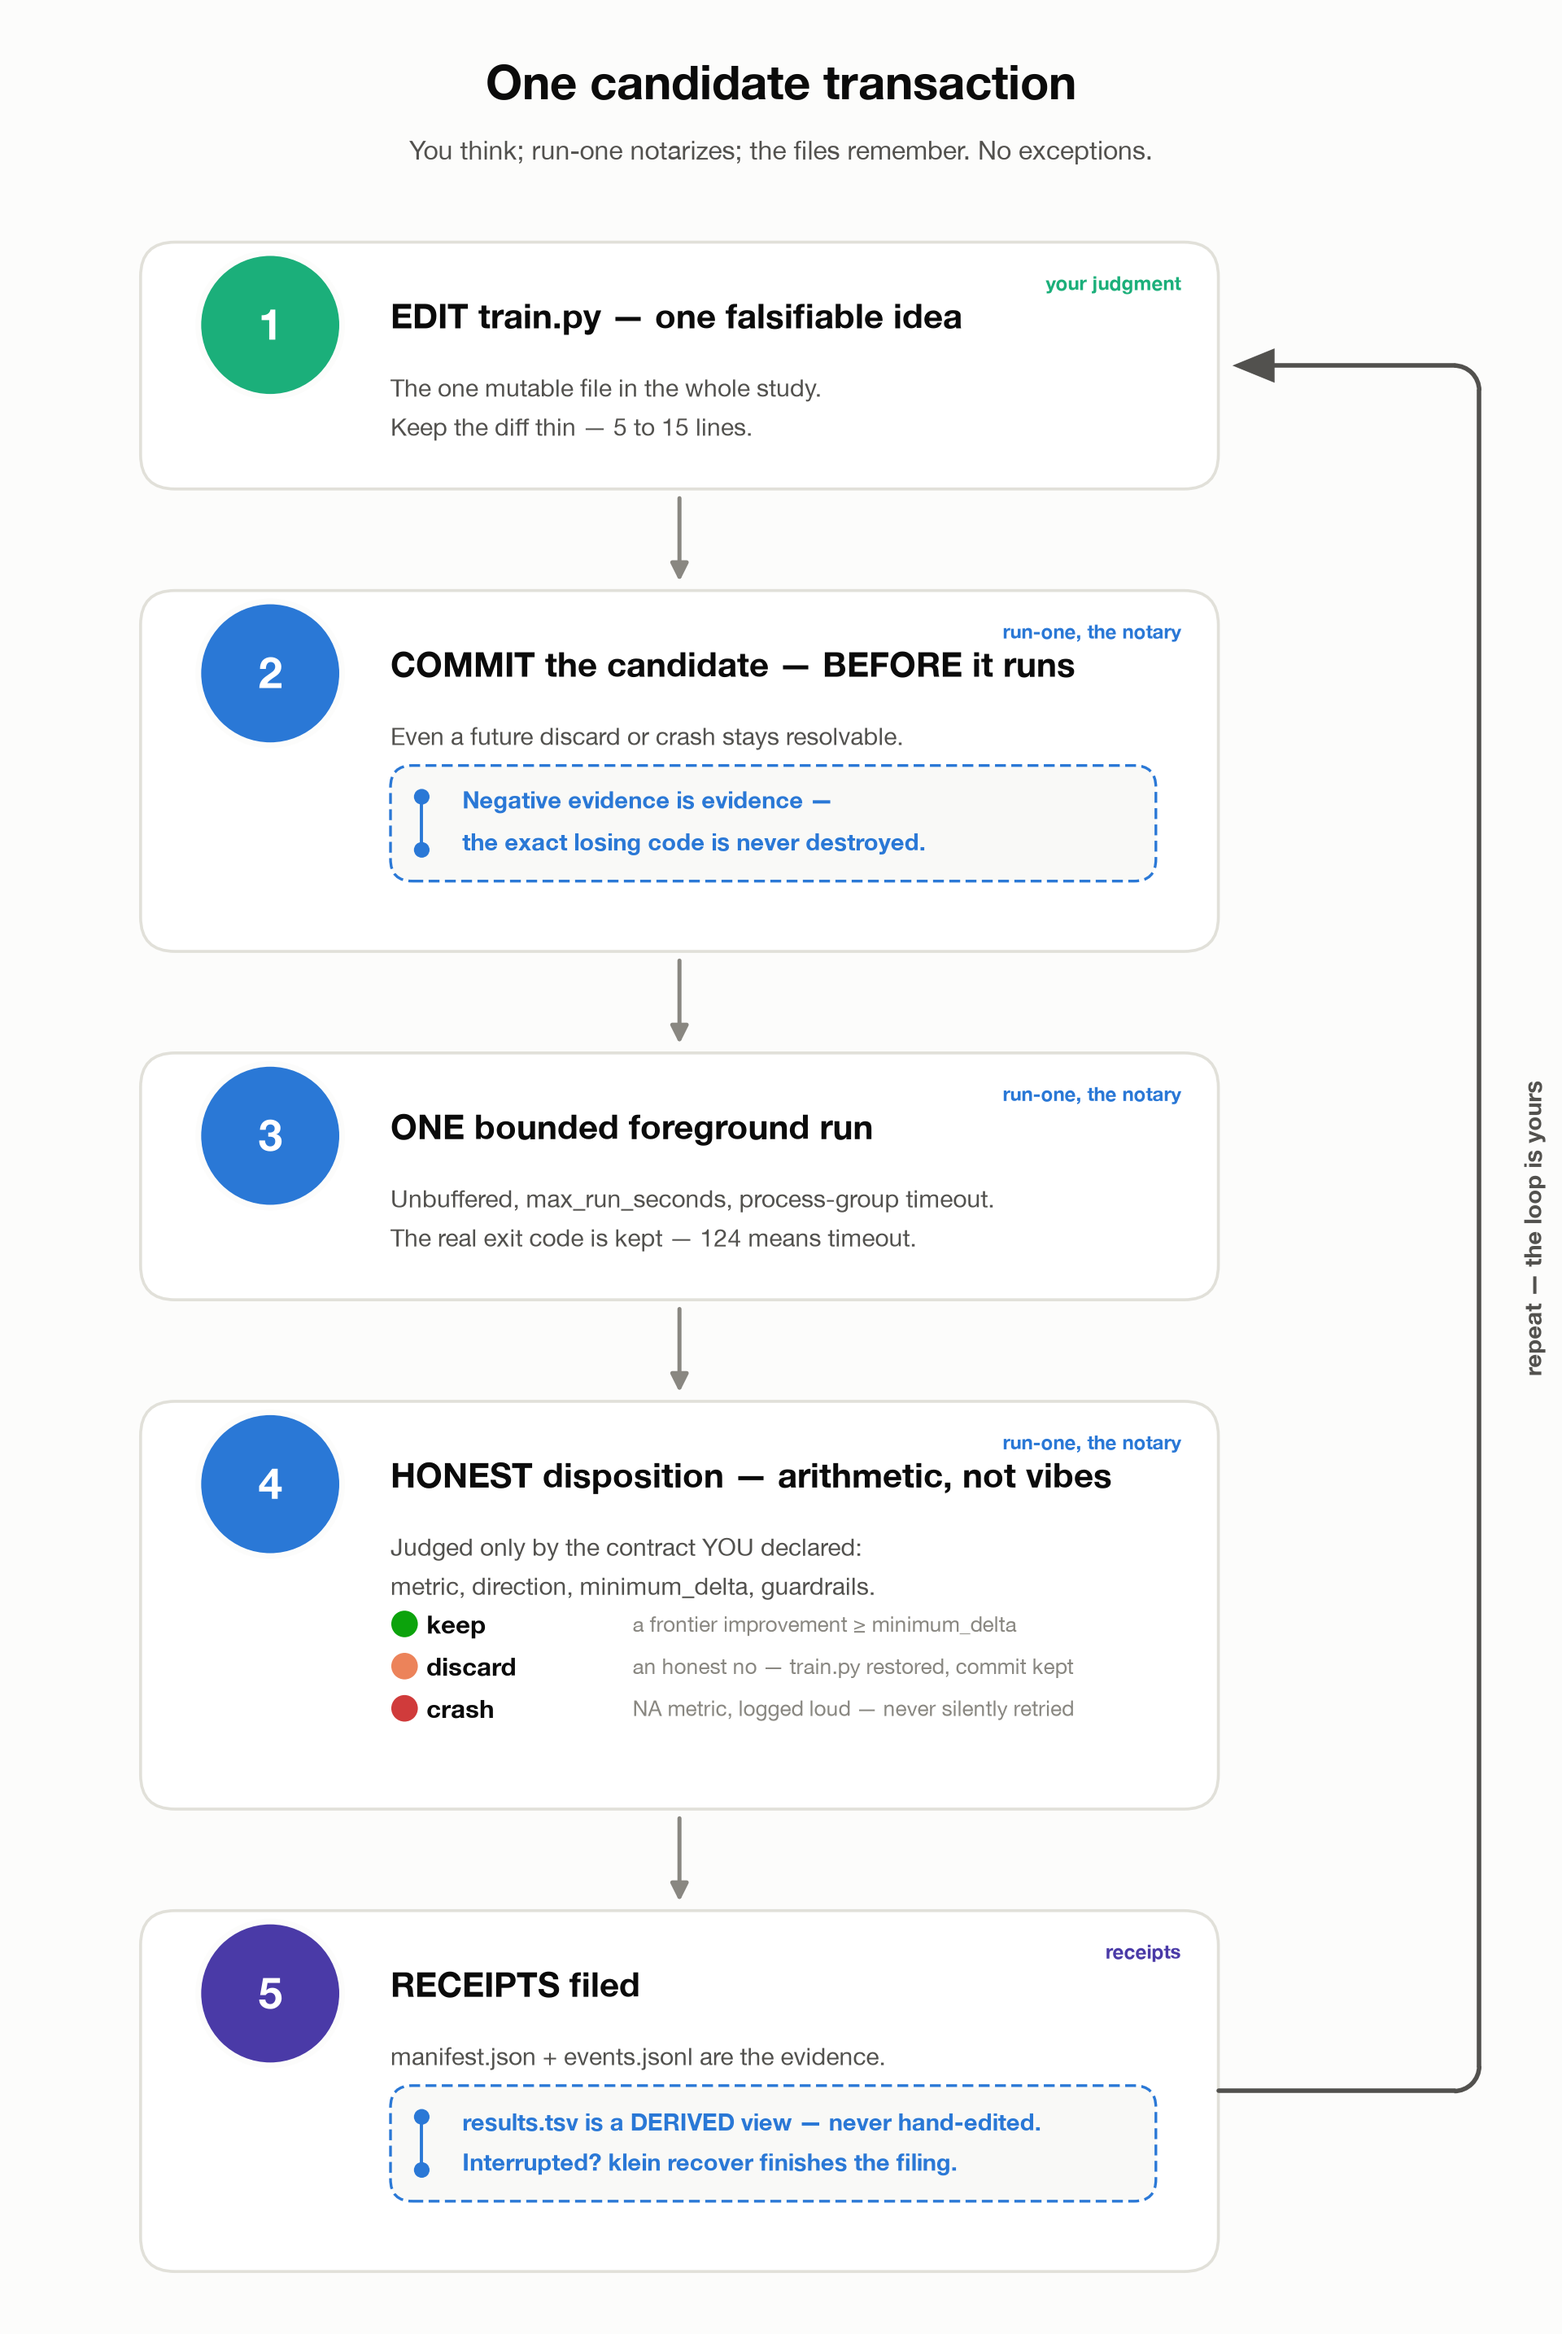
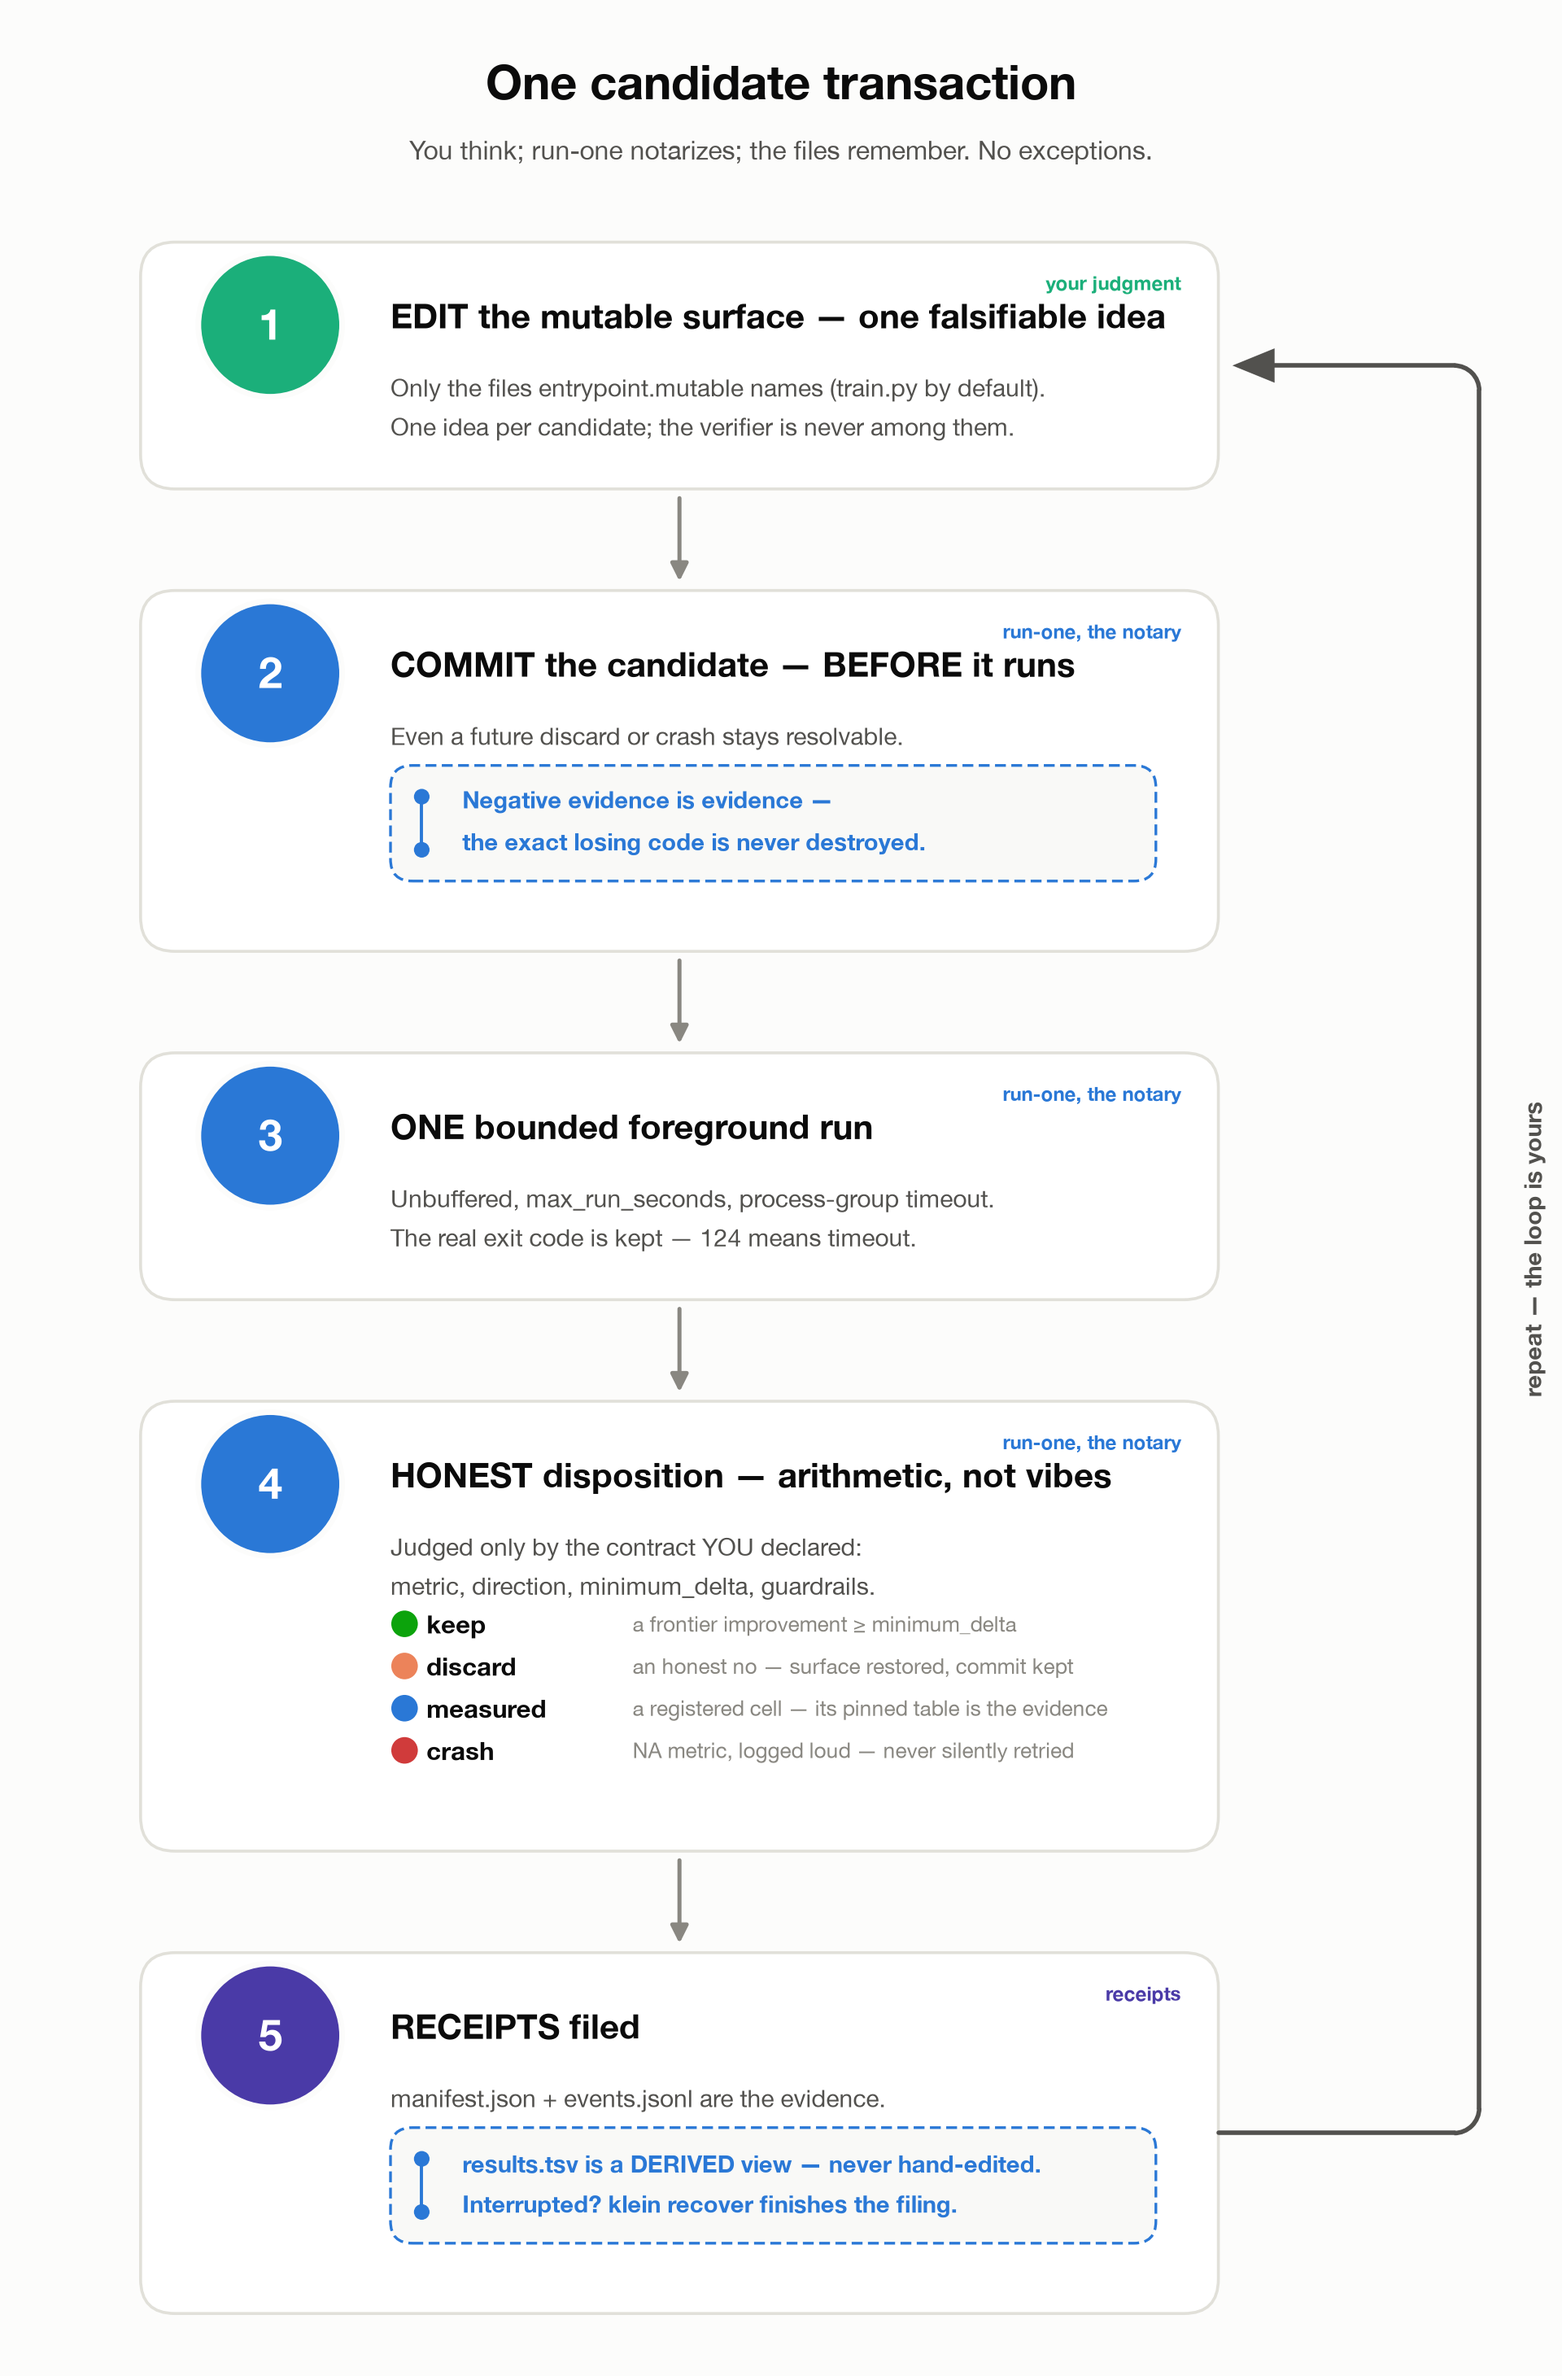
docs(diagrams): lifecycle gains the REFEREE card (Gate 3, bracket over the last three stages); loop transaction learns the measured disposition and the declared mutable surface; PNGs regenerated
Claude-Session: https://claude.ai/code/session_016HefKjsAszSh9M5FJ8Zw4g

diff --git a/docs/diagrams/src/lifecycle.py b/docs/diagrams/src/lifecycle.py
@@ -1,13 +1,13 @@
-"""Canonical diagram: the six-stage study lifecycle, as a vertical checkpoint flow.
+"""Canonical diagram: the seven-stage study lifecycle, as a vertical checkpoint flow.
 
 Regenerate whenever the lifecycle or a stage description changes.
 
 CONSULT (Gate 0) -> DATA (Gate 1) -> METHOD (Gate 2) -> EXPERIMENT/SWEEP ->
-SYNTHESIZE -> TUTORIAL
+SYNTHESIZE -> REFEREE (Gate 3) -> TUTORIAL
 
-Gate stages (1-3) get a hazard-stripe top band + numbered badge to read as a
-pre-flight checkpoint you must clear. The last two stages are bracketed with a
-callout: "these two make it research, not just experiment-running."
+Gate stages get a hazard-stripe top band + numbered badge to read as a
+checkpoint you must clear. The last three stages are bracketed with a
+callout: "these three make it research, not just experiment-running."
 
 Usage: uv run --no-sync python docs/diagrams/src/lifecycle.py en <out.png>
 """
@@ -40,16 +40,18 @@ CARDS_EN = [
     dict(kind="gate", num="2", title="METHOD", sub="Gate 2",
          body="Forces understanding before compute: intuition ->\nmath core -> minimal from-scratch implementation."),
     dict(kind="loop", num=None, title="EXPERIMENT / SWEEP", sub=None,
-         body="Edit train.py with one falsifiable idea -> klein run-one:\ncommit candidate, bounded run, honest keep/discard/crash."),
+         body="Edit the entrypoint with one falsifiable idea -> klein run-one:\ncommit candidate, bounded run, honest keep / discard / measured / crash."),
     dict(kind="funnel", num=None, title="SYNTHESIZE", sub=None,
-         body="Mines the full trajectory - results.tsv, aux_metrics.tsv,\nprogram.md - into findings.md, evidence-cited."),
+         body="Mines the full trajectory - manifests, predictions ledger,\nprogram.md - into findings.md + claims.lock, evidence-cited."),
+    dict(kind="gate", num="3", title="REFEREE", sub="Gate 3",
+         body="A fresh context on a different model: mechanical verifiers,\na fixed ten-check rubric, a verdict finalize cannot skip."),
     dict(kind="book", num=None, title="TUTORIAL", sub=None,
          body="Closes the loop with a teaching artifact:\nreport/index.html, opens from file://."),
 ]
 
-TITLE_EN = "The Klein study lifecycle — six stages, three checkpoints"
-CAPTION_EN = "These last two stages are what make it research — not just experiment-running."
-FOOT_EN = "CONSULT -> DATA -> METHOD are pre-flight checkpoints. Modeling is blocked until DATA says go and METHOD exists."
+TITLE_EN = "The Klein study lifecycle — seven stages, four checkpoints"
+CAPTION_EN = "These last three stages are what make it research — not just experiment-running."
+FOOT_EN = "CONSULT -> DATA -> METHOD are pre-flight checkpoints; REFEREE is the post-flight one. Modeling is blocked until DATA says go and METHOD exists; finalize waits for the referee."
 
 def draw_gate_badge(ax, cx, cy, r, num):
     ax.add_patch(Circle((cx, cy), r, facecolor=BLUE, edgecolor=SURFACE, linewidth=2.5, zorder=5))
@@ -157,9 +159,9 @@ def build(lang: str, out_path: str):
         centers.append((x0, y0, card_w, card_h))
         cursor_top = y0 - gap
 
-    # Highlight bracket behind cards 5 & 6 (index 4, 5)
+    # Highlight bracket behind cards 5, 6 & 7 (index 4 .. 6)
     bx0, by0, bw, bh4 = centers[4]
-    _, by1, _, bh5 = centers[5]
+    _, by1, _, bh5 = centers[6]
     bracket_pad = 3.2
     bracket_x0 = bx0 - bracket_pad
     bracket_y0 = by1 - bracket_pad

diff --git a/docs/diagrams/src/loop_transaction.py b/docs/diagrams/src/loop_transaction.py
@@ -52,10 +52,10 @@ LAYER_NOTARY = ("run-one, the notary", BLUE)
 LAYER_RECEIPTS = ("receipts", VIOLET)
 
 STEPS = [
-    dict(n="1", title="EDIT train.py — one falsifiable idea", kind="body",
+    dict(n="1", title="EDIT the mutable surface — one falsifiable idea", kind="body",
          layer=LAYER_YOURS,
-         body=["The one mutable file in the whole study.",
-               "Keep the diff thin — 5 to 15 lines."]),
+         body=["Only the files entrypoint.mutable names (train.py by default).",
+               "One idea per candidate; the verifier is never among them."]),
     dict(n="2", title="COMMIT the candidate — BEFORE it runs", kind="callout",
          layer=LAYER_NOTARY,
          body=["Even a future discard or crash stays resolvable."],
@@ -69,7 +69,8 @@ STEPS = [
          body=["Judged only by the contract YOU declared:",
                "metric, direction, minimum_delta, guardrails."],
          chips=[("keep", "a frontier improvement ≥ minimum_delta"),
-                ("discard", "an honest no — train.py restored, commit kept"),
+                ("discard", "an honest no — surface restored, commit kept"),
+                ("measured", "a registered cell — its pinned table is the evidence"),
                 ("crash", "NA metric, logged loud — never silently retried")]),
     dict(n="5", title="RECEIPTS filed", kind="callout",
          layer=LAYER_RECEIPTS,
@@ -125,7 +126,7 @@ def build(out_path: str):
         centers.append((margin_x, y0, card_w, h))
         cursor_top = y0 - gap
 
-    chip_colors = {"keep": GOOD, "discard": SERIOUS, "crash": CRITICAL}
+    chip_colors = {"keep": GOOD, "discard": SERIOUS, "measured": BLUE, "crash": CRITICAL}
 
     for step, (x0, y0, w, h) in zip(steps, centers, strict=True):
         ax.add_patch(FancyBboxPatch((x0, y0), w, h, boxstyle="round,pad=0,rounding_size=2.2",

diff --git a/docs/diagrams/README.md b/docs/diagrams/README.md
@@ -4,8 +4,8 @@ Three drawings that ARE the doctrine, rendered:
 
 | File | Shows | Source |
 |---|---|---|
-| `lifecycle.png` | the six-stage study lifecycle with its three gates | `src/lifecycle.py` |
-| `loop-transaction.png` | one candidate transaction under the v2 loop contract (judgment / notary / receipts) | `src/loop_transaction.py` |
+| `lifecycle.png` | the seven-stage study lifecycle with its four gates (REFEREE is Gate 3) | `src/lifecycle.py` |
+| `loop-transaction.png` | one candidate transaction under the loop contract (judgment / notary / receipts; keep / discard / measured / crash) | `src/loop_transaction.py` |
 | `klein-bottle.png` | why "Klein" — the loop whose output feeds its own input | `src/klein_bottle.py` |
 
 Regenerate with core deps only (matplotlib; DejaVu Sans fallback is built in):
